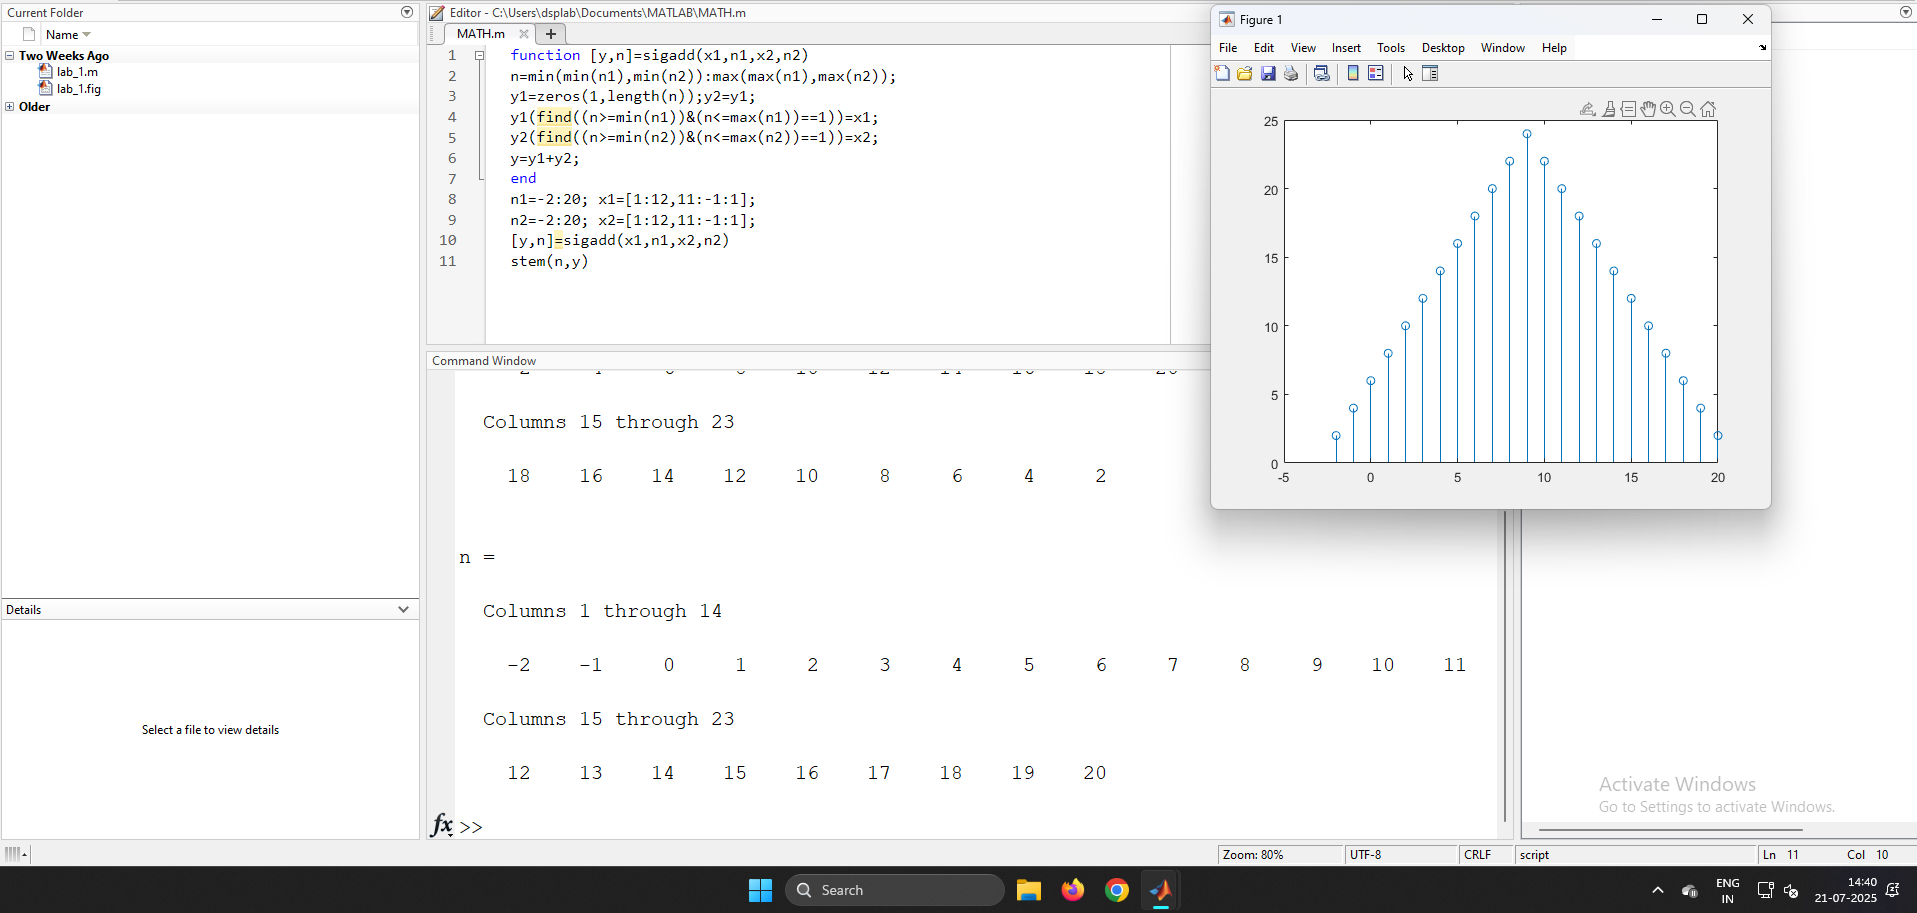
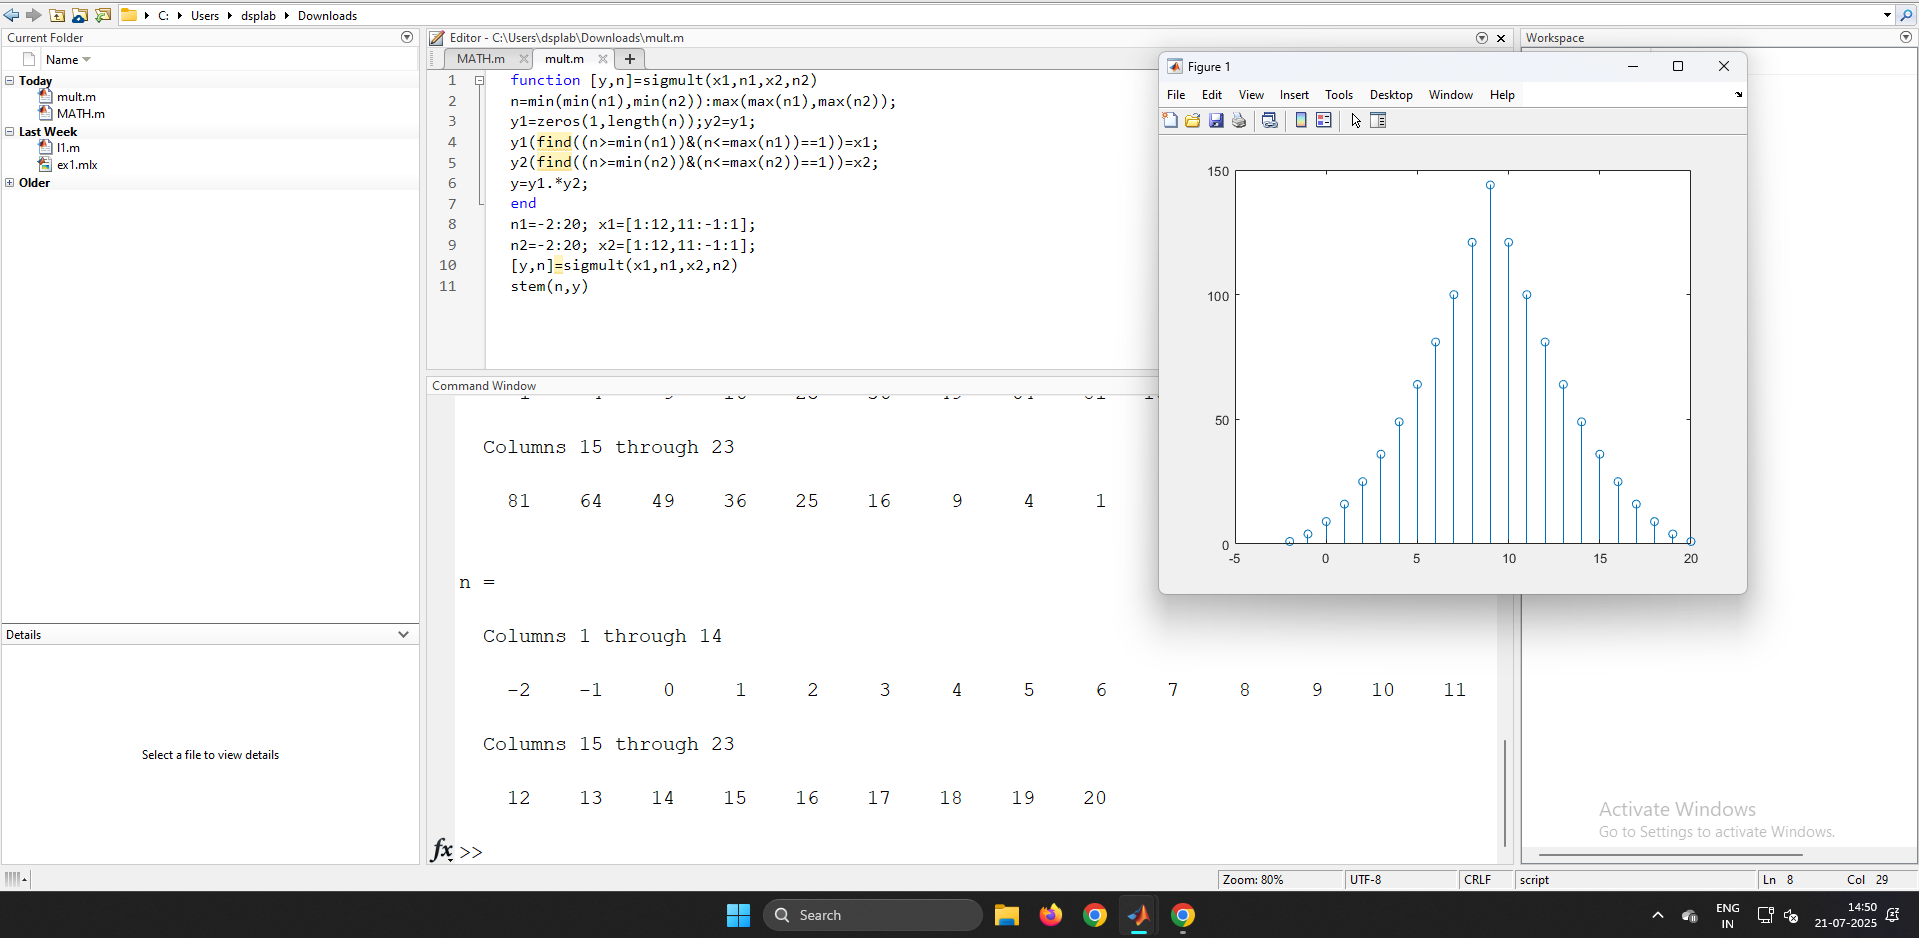
Add files via upload

diff --git a/mult.m b/mult.m
@@ -1,0 +1,11 @@
+function [y,n]=sigmult(x1,n1,x2,n2)
+n=min(min(n1),min(n2)):max(max(n1),max(n2));
+y1=zeros(1,length(n));y2=y1;
+y1(find((n>=min(n1))&(n<=max(n1))==1))=x1;
+y2(find((n>=min(n2))&(n<=max(n2))==1))=x2;
+y=y1.*y2;
+end
+n1=-2:20; x1=[1:12,11:-1:1];
+n2=-2:20; x2=[1:12,11:-1:1];
+[y,n]=sigmult(x1,n1,x2,n2)
+stem(n,y)
